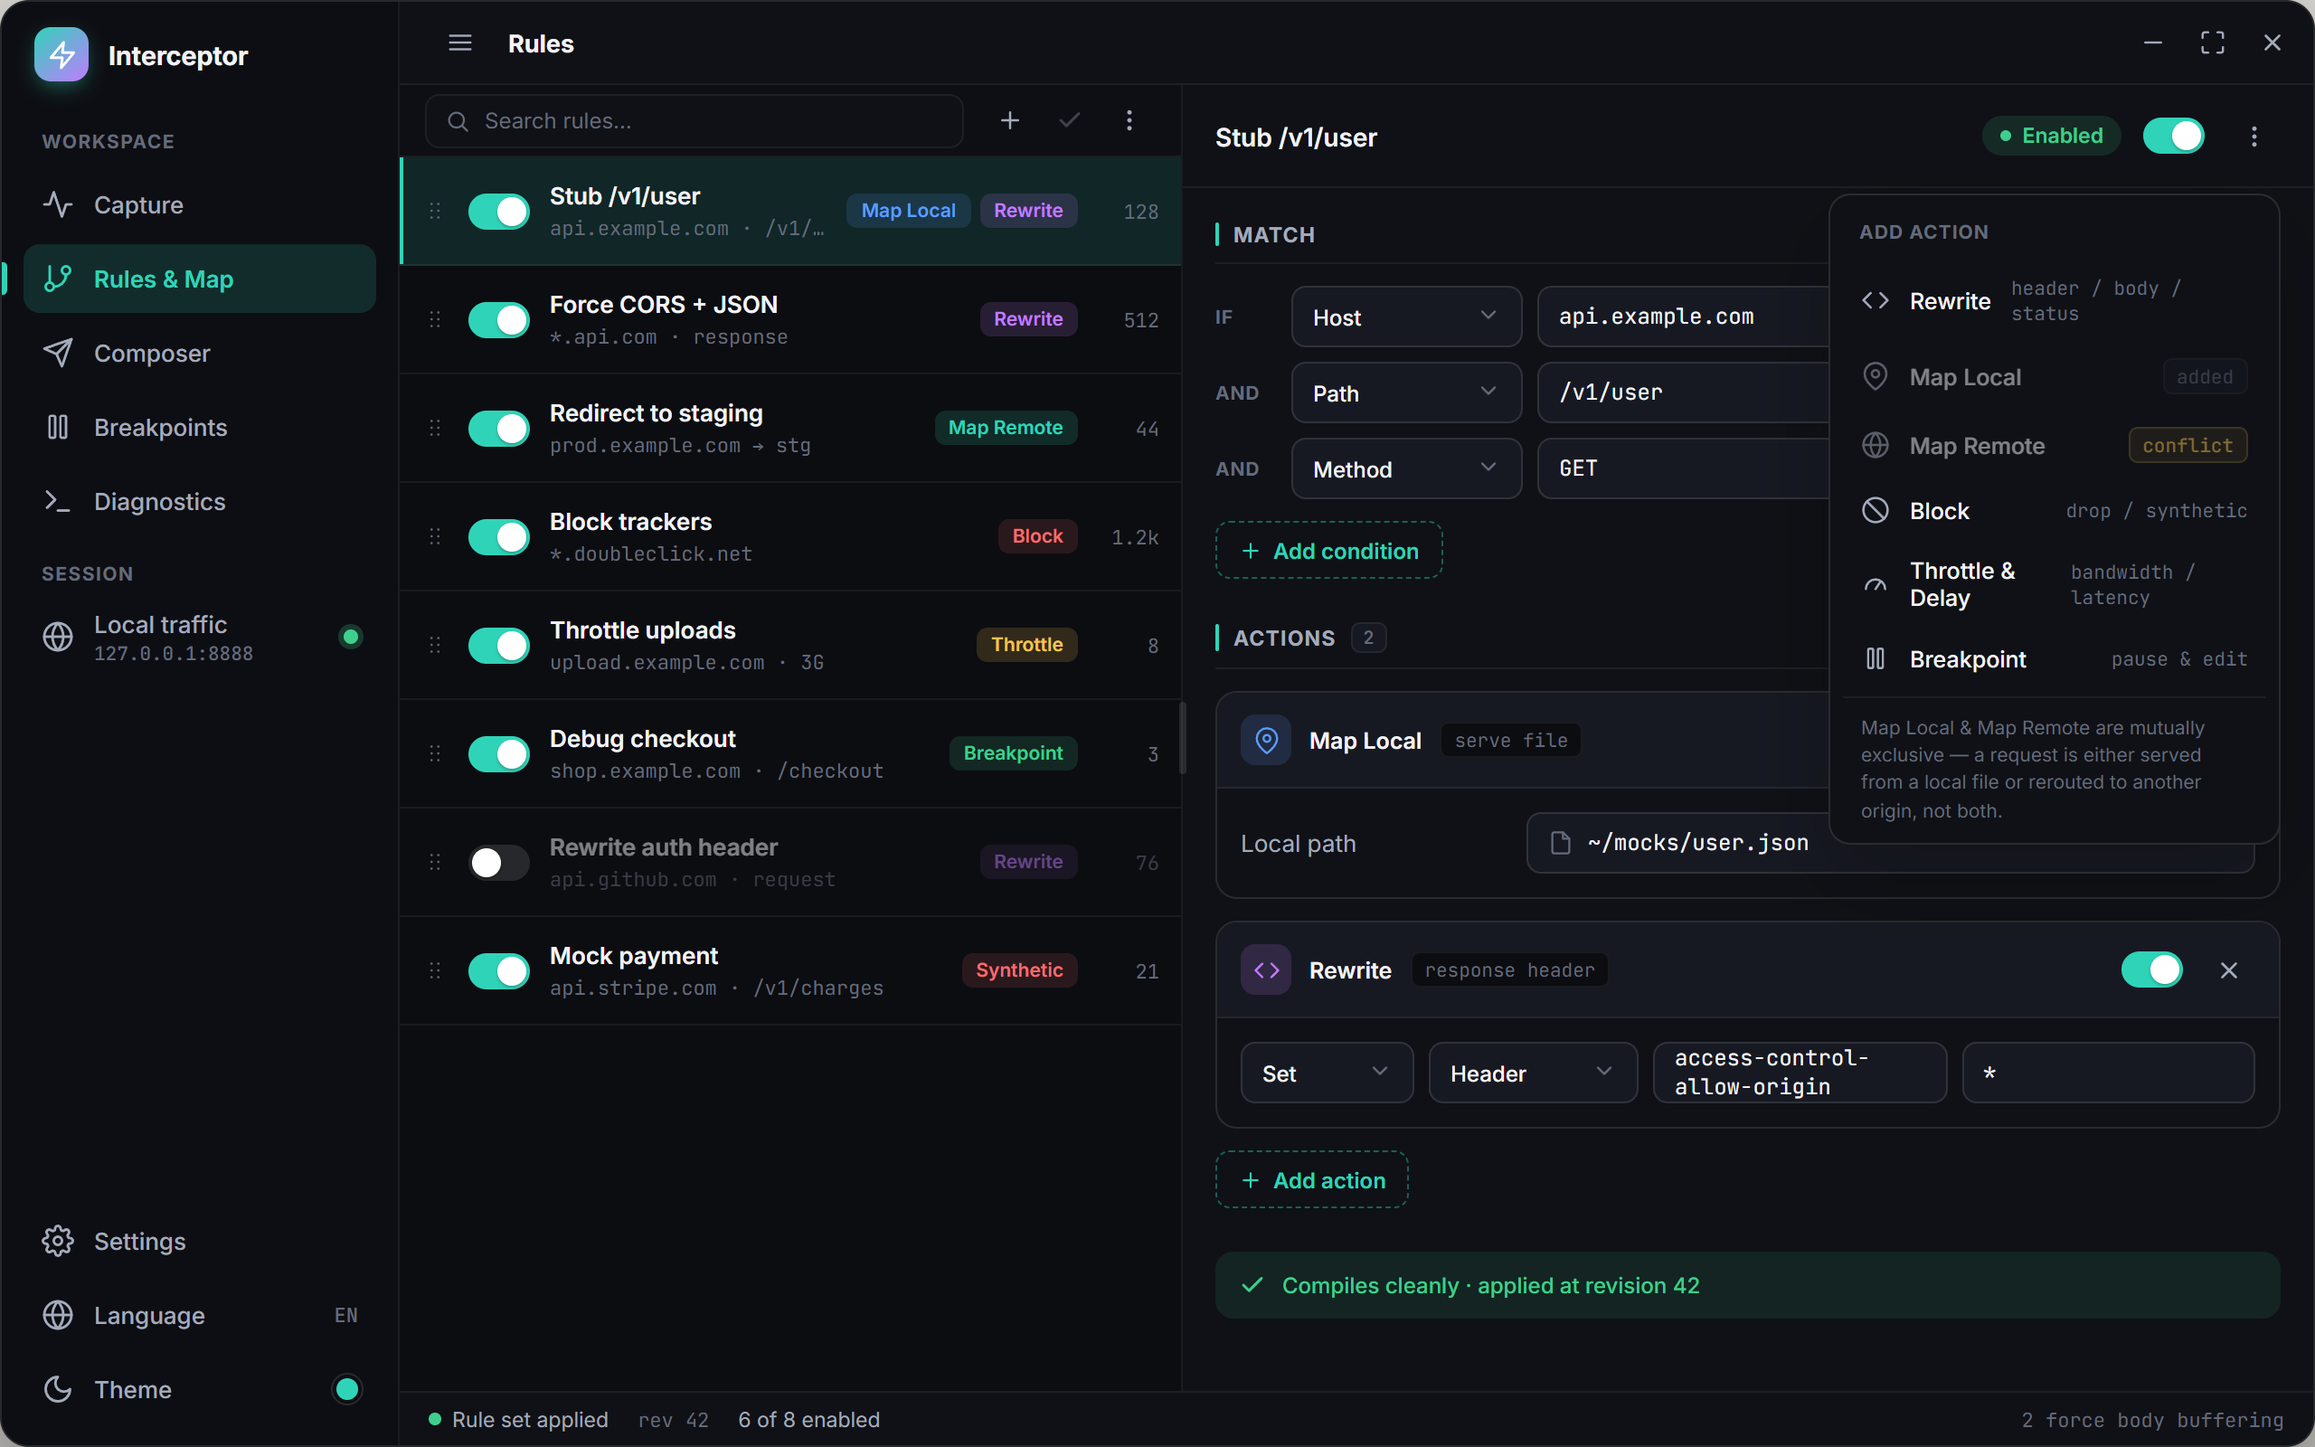
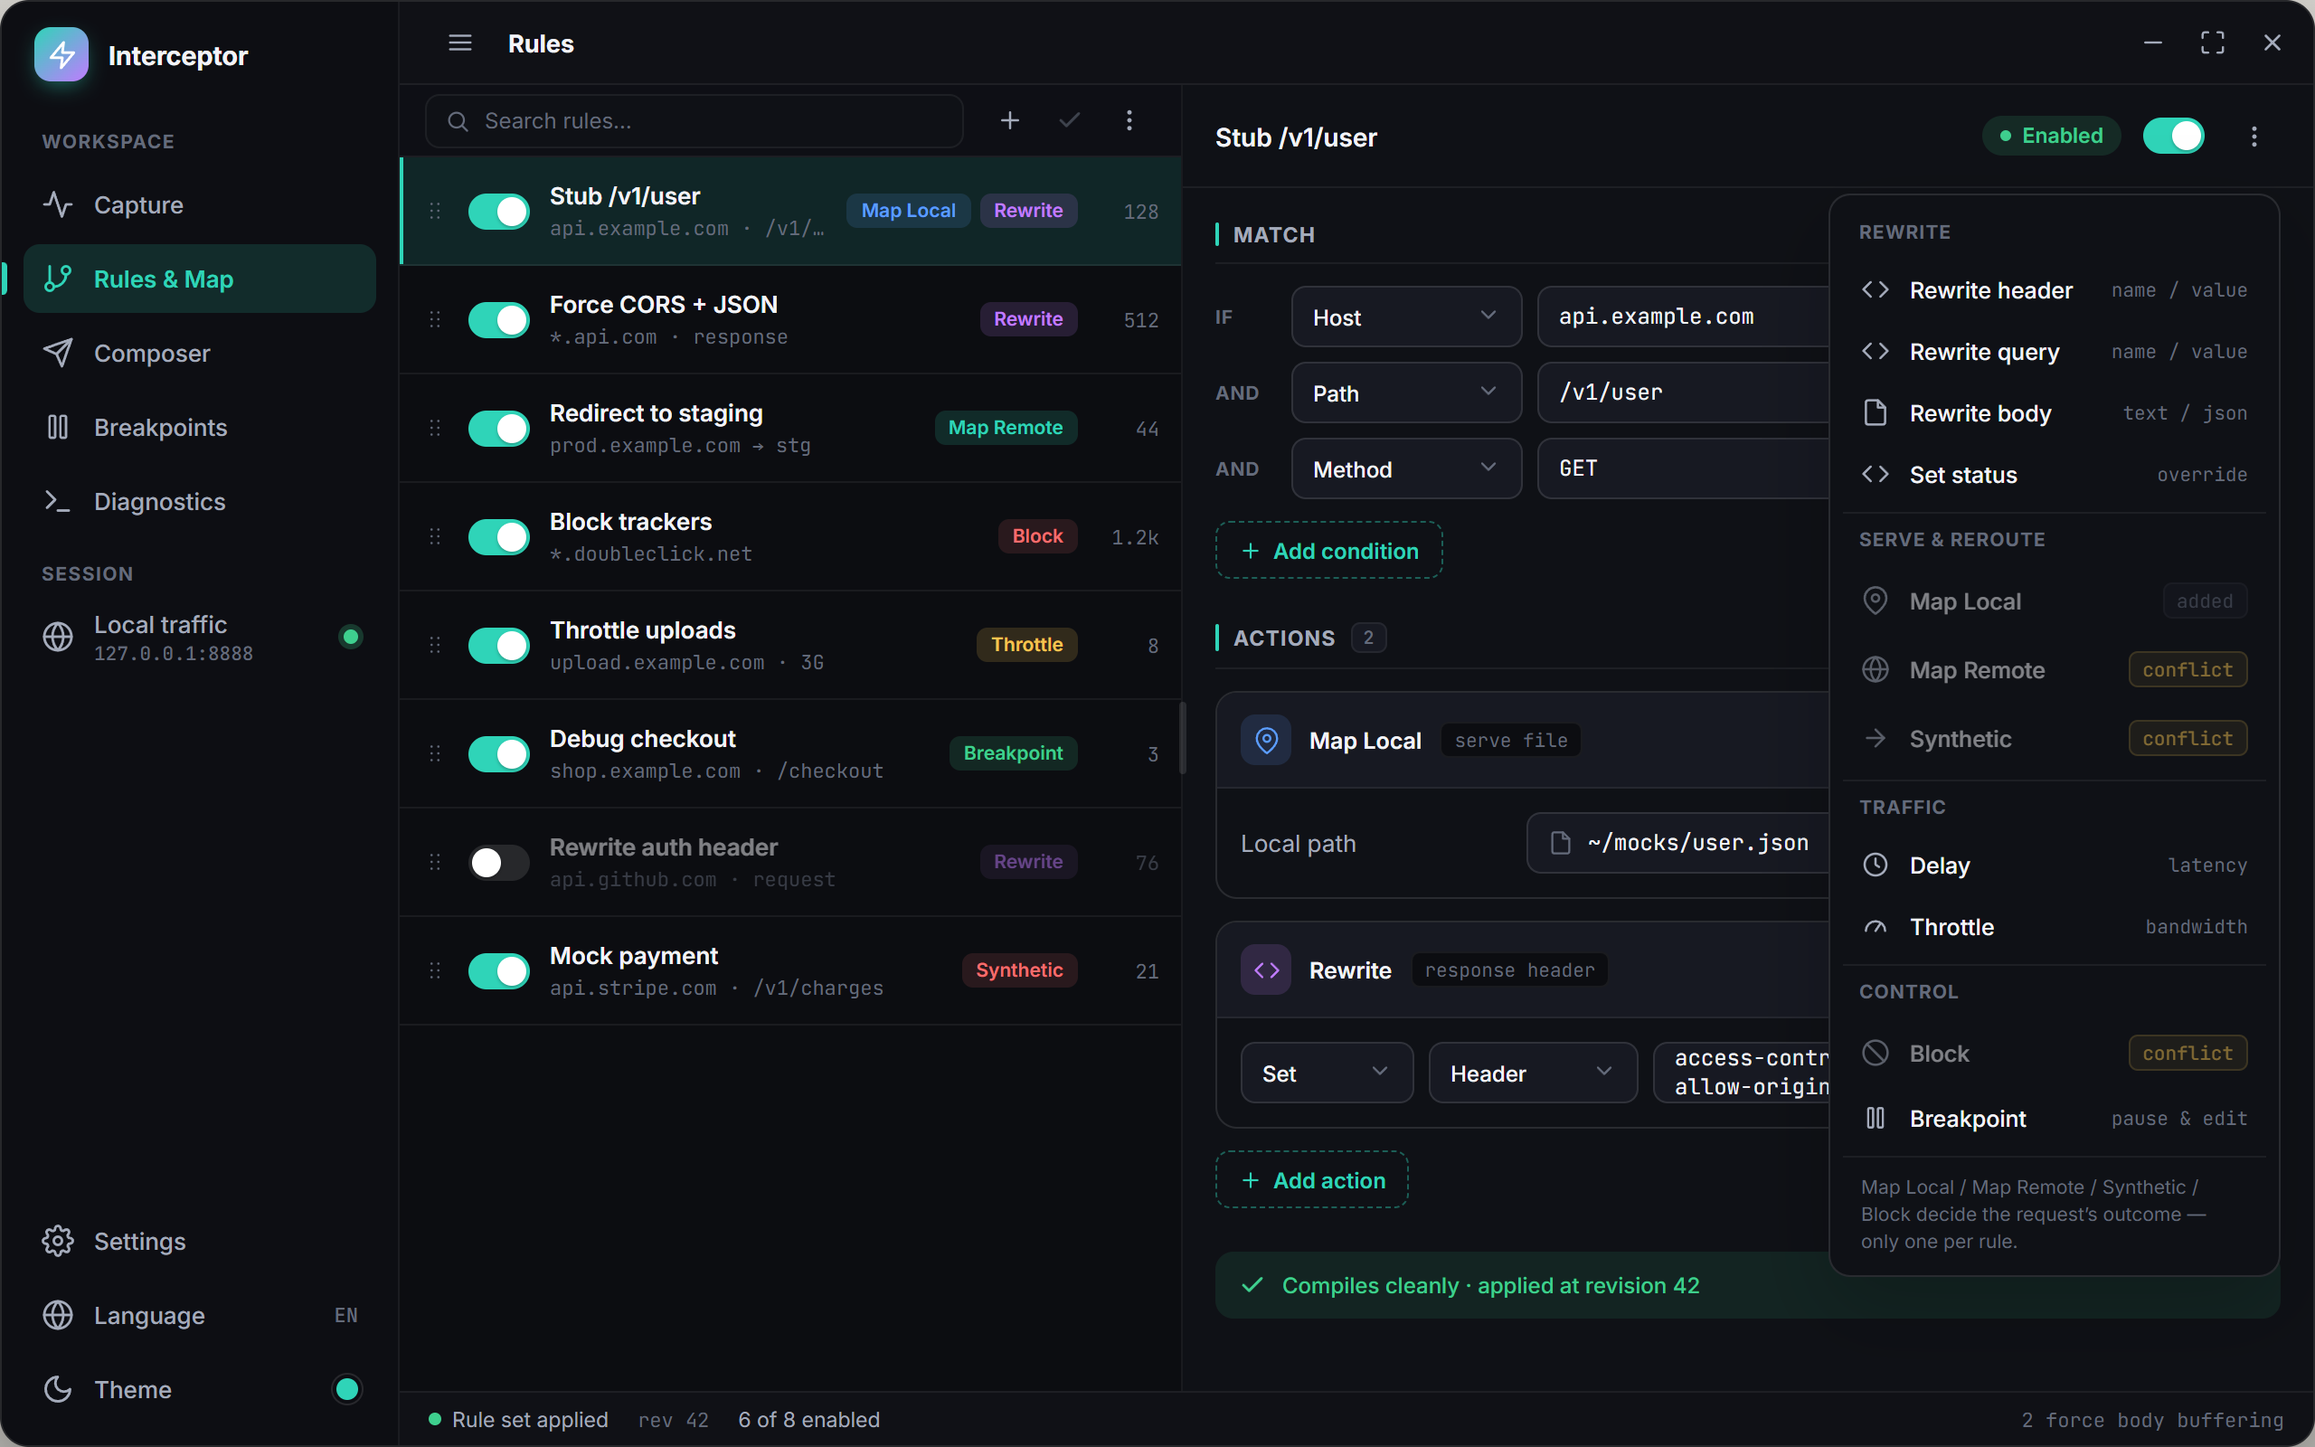
Rules: action 互斥+分组菜单, Select 高度对齐输入框
Add action 菜单按 改写/映射/流控/中断 分组; map-local/map-remote/synthetic/block 四者为请求归宿互斥, 菜单以 added/conflict 引导并禁用(RuleEditor + 设计稿 apop 一致)。

Select 显式 controlHeight 34 对齐 34px 输入框(antd 默认 32 导致偏矮); i18n 15 语言新增 added/conflict/groupRewrite/groupMap/groupTraffic/groupControl。

matcher 分析后保留全部 8 种(host/path/query 结构化匹配、status 唯一响应码匹配、mime 类型场景); 更新 shots; TODO 勾选 5/6, HANDOVER 同步。

diff --git a/apps/desktop/src/renderer/features/rules/RuleEditor/RuleEditor.tsx b/apps/desktop/src/renderer/features/rules/RuleEditor/RuleEditor.tsx
@@ -32,6 +32,9 @@ import { ActionEditor } from './ActionEditor';
 import { MatcherRow } from './MatcherRow';
 import styles from './RuleEditor.module.css';
 
+/** 决定“请求最终归宿”的互斥 action：本地响应/转发/合成响应/阻断，一个规则最多一个。 */
+const ORIGIN_ACTIONS: RuleActionType[] = ['map-local', 'map-remote', 'synthetic', 'block'];
+
 /** Editor for the selected rule: match conditions, actions and validation. */
 export function RuleEditor(): React.JSX.Element {
   const { t } = useTranslation();
@@ -74,6 +77,15 @@ export function RuleEditor(): React.JSX.Element {
     addMatcher(rule.id, type);
     setShowAddCondition(false);
   };
+
+  // “请求归宿”互斥：已存在其一时，其余在 Add action 菜单里标记 conflict 并禁用。
+  const existingOrigin = rule.actions.find((action) => ORIGIN_ACTIONS.includes(action.type))?.type;
+  const originItem = (type: RuleActionType, defaultHint: string) =>
+    existingOrigin === undefined
+      ? { hint: defaultHint }
+      : existingOrigin === type
+        ? { hint: t('rules.added'), tag: true, disabled: true }
+        : { hint: t('rules.conflict'), tag: true, warn: true, disabled: true };
 
   return (
     <div className={styles.editor}>
@@ -166,17 +178,20 @@ export function RuleEditor(): React.JSX.Element {
             className={styles.popover}
             content={
               <>
-                <div className={styles.popoverTitle}>{t('rules.addAction')}</div>
+                <div className={styles.popoverGroup}>{t('rules.groupRewrite')}</div>
                 <MenuItem icon={Code} name={t('rules.rewriteHeader')} hint={t('rules.rewriteHeaderHint')} onClick={() => addAndClose('header')} />
                 <MenuItem icon={Code} name={t('rules.rewriteQuery')} hint={t('rules.rewriteQueryHint')} onClick={() => addAndClose('query')} />
                 <MenuItem icon={FileText} name={t('rules.rewriteBody')} hint={t('rules.rewriteBodyHint')} onClick={() => addAndClose('body')} />
                 <MenuItem icon={Code} name={t('rules.setStatus')} hint={t('rules.override')} onClick={() => addAndClose('status')} />
-                <MenuItem icon={Reply} name={t('rules.synthetic')} hint={t('rules.returnResponse')} onClick={() => addAndClose('synthetic')} />
-                <MenuItem icon={MapPin} name={t('rules.mapLocal')} hint={t('rules.serveFile')} onClick={() => addAndClose('map-local')} />
-                <MenuItem icon={Globe} name={t('rules.mapRemote')} hint={t('rules.reroute')} onClick={() => addAndClose('map-remote')} />
-                <MenuItem icon={Ban} name={t('rules.block')} hint={t('rules.resetClose')} onClick={() => addAndClose('block')} />
+                <div className={styles.popoverGroup}>{t('rules.groupMap')}</div>
+                <MenuItem icon={MapPin} name={t('rules.mapLocal')} {...originItem('map-local', t('rules.serveFile'))} onClick={() => addAndClose('map-local')} />
+                <MenuItem icon={Globe} name={t('rules.mapRemote')} {...originItem('map-remote', t('rules.reroute'))} onClick={() => addAndClose('map-remote')} />
+                <MenuItem icon={Reply} name={t('rules.synthetic')} {...originItem('synthetic', t('rules.returnResponse'))} onClick={() => addAndClose('synthetic')} />
+                <div className={styles.popoverGroup}>{t('rules.groupTraffic')}</div>
                 <MenuItem icon={Clock} name={t('rules.delay')} hint={t('rules.latency')} onClick={() => addAndClose('delay')} />
                 <MenuItem icon={Gauge} name={t('rules.throttle')} hint={t('rules.bandwidth')} onClick={() => addAndClose('throttle')} />
+                <div className={styles.popoverGroup}>{t('rules.groupControl')}</div>
+                <MenuItem icon={Ban} name={t('rules.block')} {...originItem('block', t('rules.resetClose'))} onClick={() => addAndClose('block')} />
                 <MenuItem icon={Pause} name={t('rules.breakpoint')} hint={t('rules.pauseEdit')} onClick={() => addAndClose('breakpoint')} />
               </>
             }

diff --git a/design/app/index.html b/design/app/index.html
@@ -274,14 +274,22 @@
               <div class="vnote"><svg><use href="#i-check"/></svg>Compiles cleanly · applied at revision 42</div>
             </div>
             <div class="apop">
-              <div class="po-t">Add action</div>
-              <div class="fi"><svg><use href="#i-code"/></svg><span class="n">Rewrite</span><span class="ex">header / body / status</span></div>
+              <div class="po-t">Rewrite</div>
+              <div class="fi"><svg><use href="#i-code"/></svg><span class="n">Rewrite header</span><span class="ex">name / value</span></div>
+              <div class="fi"><svg><use href="#i-code"/></svg><span class="n">Rewrite query</span><span class="ex">name / value</span></div>
+              <div class="fi"><svg><use href="#i-file"/></svg><span class="n">Rewrite body</span><span class="ex">text / json</span></div>
+              <div class="fi"><svg><use href="#i-code"/></svg><span class="n">Set status</span><span class="ex">override</span></div>
+              <div class="po-t">Serve &amp; reroute</div>
               <div class="fi dis"><svg><use href="#i-map"/></svg><span class="n">Map Local</span><span class="ex tag">added</span></div>
               <div class="fi dis"><svg><use href="#i-globe"/></svg><span class="n">Map Remote</span><span class="ex tag warn">conflict</span></div>
-              <div class="fi"><svg><use href="#i-slash"/></svg><span class="n">Block</span><span class="ex">drop / synthetic</span></div>
-              <div class="fi"><svg><use href="#i-gauge"/></svg><span class="n">Throttle &amp; Delay</span><span class="ex">bandwidth / latency</span></div>
+              <div class="fi dis"><svg><use href="#i-arrow"/></svg><span class="n">Synthetic</span><span class="ex tag warn">conflict</span></div>
+              <div class="po-t">Traffic</div>
+              <div class="fi"><svg><use href="#i-clock"/></svg><span class="n">Delay</span><span class="ex">latency</span></div>
+              <div class="fi"><svg><use href="#i-gauge"/></svg><span class="n">Throttle</span><span class="ex">bandwidth</span></div>
+              <div class="po-t">Control</div>
+              <div class="fi dis"><svg><use href="#i-slash"/></svg><span class="n">Block</span><span class="ex tag warn">conflict</span></div>
               <div class="fi"><svg><use href="#i-pause"/></svg><span class="n">Breakpoint</span><span class="ex">pause &amp; edit</span></div>
-              <div class="po-note">Map Local &amp; Map Remote are mutually exclusive — a request is either served from a local file or rerouted to another origin, not both.</div>
+              <div class="po-note">Map Local / Map Remote / Synthetic / Block decide the request’s outcome — only one per rule.</div>
             </div>
           </div>
         </div>

diff --git a/design/app/app.css b/design/app/app.css
@@ -167,6 +167,7 @@ button.ib { padding: 0; border: 0; background: transparent; }
 .app.showpop .ompop { display: block; }
 .app.showpop .fbtn { background: var(--accent-soft); color: var(--accent); }
 .po-t { padding: 7px 9px 8px; font-size: 10.5px; font-weight: 650; letter-spacing: .05em; text-transform: uppercase; color: var(--text-3); }
+.apop .po-t:not(:first-child) { margin-top: 4px; border-top: 1px solid var(--border); padding-top: 8px; }
 .fi { display: flex; align-items: center; gap: 11px; padding: 9px 10px; border-radius: 8px; cursor: pointer; }
 .fi:not(.dis):hover { background: var(--hover); }
 .fi > svg { width: 16px; height: 16px; color: var(--text-2); flex: 0 0 auto; }

diff --git a/apps/desktop/src/renderer/i18n/locales/ru.ts b/apps/desktop/src/renderer/i18n/locales/ru.ts
@@ -331,6 +331,12 @@ export const ruCatalog = {
   'rules.exactMatch': 'Точное совпадение',
   'rules.regexMatch': 'Регулярное выражение',
   'rules.valueOptional': 'значение (необязательно)',
+  'rules.added': 'добавлено',
+  'rules.conflict': 'конфликт',
+  'rules.groupRewrite': 'Перезапись',
+  'rules.groupMap': 'Сопоставление',
+  'rules.groupTraffic': 'Трафик',
+  'rules.groupControl': 'Управление',
   'rules.phase.request': 'запрос',
   'rules.phase.response': 'ответ',
   'rules.operation.set': 'Задать',

diff --git a/apps/desktop/src/renderer/i18n/locales/uk.ts b/apps/desktop/src/renderer/i18n/locales/uk.ts
@@ -331,6 +331,12 @@ export const ukCatalog = {
   'rules.exactMatch': 'Точний збіг',
   'rules.regexMatch': 'Регулярний вираз',
   'rules.valueOptional': 'значення (необовʼязково)',
+  'rules.added': 'додано',
+  'rules.conflict': 'конфлікт',
+  'rules.groupRewrite': 'Перезапис',
+  'rules.groupMap': 'Зіставлення',
+  'rules.groupTraffic': 'Трафік',
+  'rules.groupControl': 'Керування',
   'rules.phase.request': 'запит',
   'rules.phase.response': 'відповідь',
   'rules.operation.set': 'Задати',

diff --git a/apps/desktop/src/renderer/theme/theme.ts b/apps/desktop/src/renderer/theme/theme.ts
@@ -84,7 +84,8 @@ export function createAppTheme(mode: ThemeMode): ThemeConfig {
         contentBg: 'var(--panel)',
       },
       Select: {
-        // 全局下拉：填充式选择器 + antd 浮层菜单，视觉对齐设计稿 sel2（panel-2 底、8px 圆角、12px 字）。
+        // 全局下拉：填充式选择器 + antd 浮层菜单，视觉对齐设计稿 sel2/inp（34px 高、panel-2 底、8px 圆角、12px 字）。
+        controlHeight: 34,
         selectorBg: 'var(--panel-2)',
         optionSelectedBg: 'var(--accent-soft)',
         optionSelectedColor: 'var(--accent)',

diff --git a/apps/desktop/src/renderer/i18n/locales/ja.ts b/apps/desktop/src/renderer/i18n/locales/ja.ts
@@ -323,6 +323,12 @@ export const jaCatalog = {
   'rules.exactMatch': '完全一致',
   'rules.regexMatch': '正規表現',
   'rules.valueOptional': '値（任意）',
+  'rules.added': '追加済み',
+  'rules.conflict': '競合',
+  'rules.groupRewrite': '書き換え',
+  'rules.groupMap': 'マッピング',
+  'rules.groupTraffic': 'トラフィック',
+  'rules.groupControl': '制御',
   'rules.phase.request': 'リクエスト',
   'rules.phase.response': 'レスポンス',
   'rules.operation.set': '設定',

diff --git a/apps/desktop/src/renderer/i18n/locales/pt-BR.ts b/apps/desktop/src/renderer/i18n/locales/pt-BR.ts
@@ -323,6 +323,12 @@ export const ptBRCatalog = {
   'rules.exactMatch': 'Correspondência exata',
   'rules.regexMatch': 'Regex',
   'rules.valueOptional': 'valor (opcional)',
+  'rules.added': 'adicionado',
+  'rules.conflict': 'conflito',
+  'rules.groupRewrite': 'Reescrita',
+  'rules.groupMap': 'Mapeamento',
+  'rules.groupTraffic': 'Tráfego',
+  'rules.groupControl': 'Controle',
   'rules.phase.request': 'requisição',
   'rules.phase.response': 'resposta',
   'rules.operation.set': 'Definir',

diff --git a/apps/desktop/src/renderer/i18n/locales/it.ts b/apps/desktop/src/renderer/i18n/locales/it.ts
@@ -323,6 +323,12 @@ export const itCatalog = {
   'rules.exactMatch': 'Corrispondenza esatta',
   'rules.regexMatch': 'Regex',
   'rules.valueOptional': 'valore (facoltativo)',
+  'rules.added': 'aggiunto',
+  'rules.conflict': 'conflitto',
+  'rules.groupRewrite': 'Riscrittura',
+  'rules.groupMap': 'Mappatura',
+  'rules.groupTraffic': 'Traffico',
+  'rules.groupControl': 'Controllo',
   'rules.phase.request': 'richiesta',
   'rules.phase.response': 'risposta',
   'rules.operation.set': 'Imposta',

diff --git a/apps/desktop/src/renderer/i18n/locales/pl.ts b/apps/desktop/src/renderer/i18n/locales/pl.ts
@@ -331,6 +331,12 @@ export const plCatalog = {
   'rules.exactMatch': 'Dokładne dopasowanie',
   'rules.regexMatch': 'Regex',
   'rules.valueOptional': 'wartość (opcjonalnie)',
+  'rules.added': 'dodano',
+  'rules.conflict': 'konflikt',
+  'rules.groupRewrite': 'Przepisywanie',
+  'rules.groupMap': 'Mapowanie',
+  'rules.groupTraffic': 'Ruch',
+  'rules.groupControl': 'Sterowanie',
   'rules.phase.request': 'żądanie',
   'rules.phase.response': 'odpowiedź',
   'rules.operation.set': 'Ustaw',

diff --git a/apps/desktop/src/renderer/i18n/locales/nl.ts b/apps/desktop/src/renderer/i18n/locales/nl.ts
@@ -321,6 +321,12 @@ export const nlCatalog = {
   'rules.exactMatch': 'Exacte overeenkomst',
   'rules.regexMatch': 'Regex',
   'rules.valueOptional': 'waarde (optioneel)',
+  'rules.added': 'toegevoegd',
+  'rules.conflict': 'conflict',
+  'rules.groupRewrite': 'Herschrijven',
+  'rules.groupMap': 'Toewijzing',
+  'rules.groupTraffic': 'Verkeer',
+  'rules.groupControl': 'Beheer',
   'rules.phase.request': 'verzoek',
   'rules.phase.response': 'antwoord',
   'rules.operation.set': 'Instellen',

diff --git a/apps/desktop/src/renderer/i18n/locales/de.ts b/apps/desktop/src/renderer/i18n/locales/de.ts
@@ -321,6 +321,12 @@ export const deCatalog = {
   'rules.exactMatch': 'Exakte Übereinstimmung',
   'rules.regexMatch': 'Regex',
   'rules.valueOptional': 'Wert (optional)',
+  'rules.added': 'hinzugefügt',
+  'rules.conflict': 'Konflikt',
+  'rules.groupRewrite': 'Umschreiben',
+  'rules.groupMap': 'Zuordnen',
+  'rules.groupTraffic': 'Traffic',
+  'rules.groupControl': 'Steuerung',
   'rules.phase.request': 'Anfrage',
   'rules.phase.response': 'Antwort',
   'rules.operation.set': 'Setzen',
